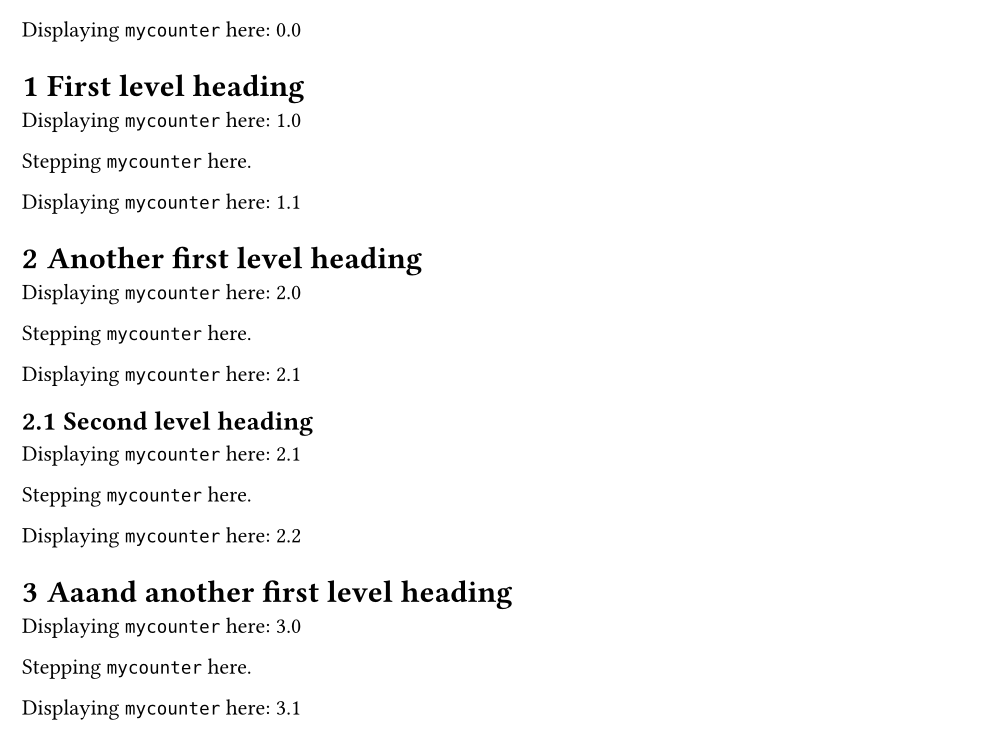
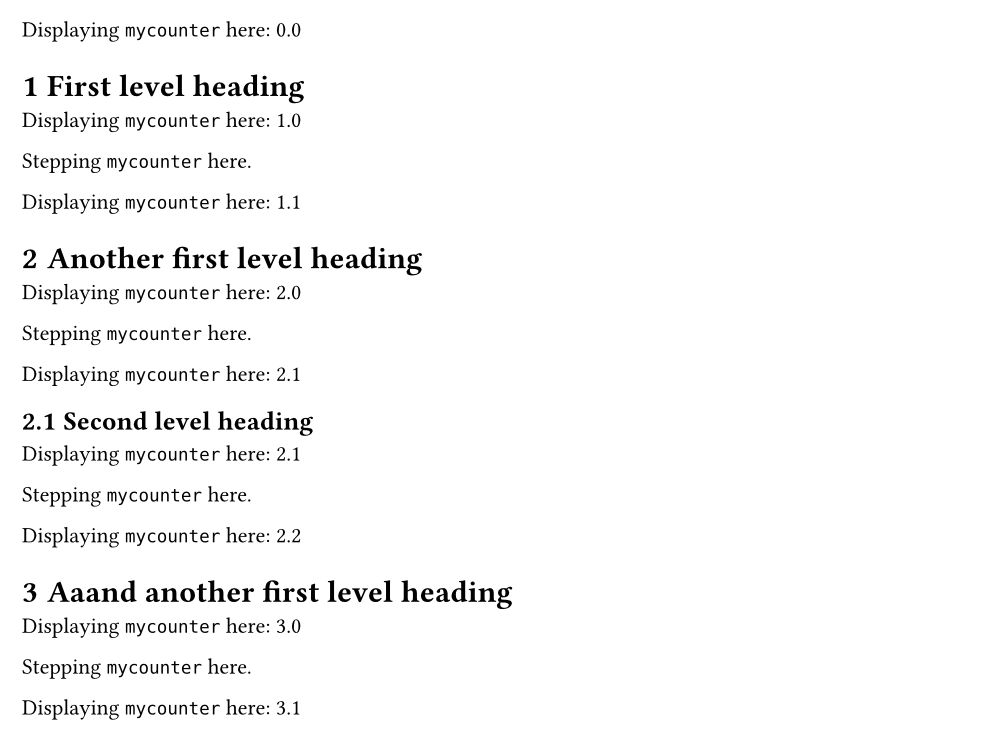
Fixes #4

diff --git a/README.md b/README.md
@@ -15,7 +15,7 @@ An `update()` method will be implemented soon.
 
 In the following example, `mycounter` inherits the first level from `heading` (but not deeper levels).
 ```typ
-#import "@preview/rich-counters:0.2.1": *
+#import "@preview/rich-counters:0.2.2": *
 
 #set heading(numbering: "1.1")
 #let mycounter = rich-counter(identifier: "mycounter", inherited_levels: 1)
@@ -81,7 +81,7 @@ It accepts three arguments:
 For example, the following creates a `rich-counter` `foo` which inherits one level from the headings, and then another `rich-counter` `bar` which inherits two levels (implicitly) from `foo`.
 
 ```typ
-#import "@preview/rich-counters:0.2.1": *
+#import "@preview/rich-counters:0.2.2": *
 
 #let foo = rich-counter(identifier: "foo", inherited_levels: 1)
 #let bar = rich-counter(identifier: "bar", inherited_from: foo)
@@ -114,7 +114,7 @@ For example, the following creates a `rich-counter` `foo` which inherits one lev
 
 For example, the following steps `mycounter` (at depth 1) and then displays it.
 ```typ
-#import "@preview/rich-counters:0.2.1": *
+#import "@preview/rich-counters:0.2.2": *
 #let mycounter = rich-counter(...)
 
 #(mycounter.step)()
